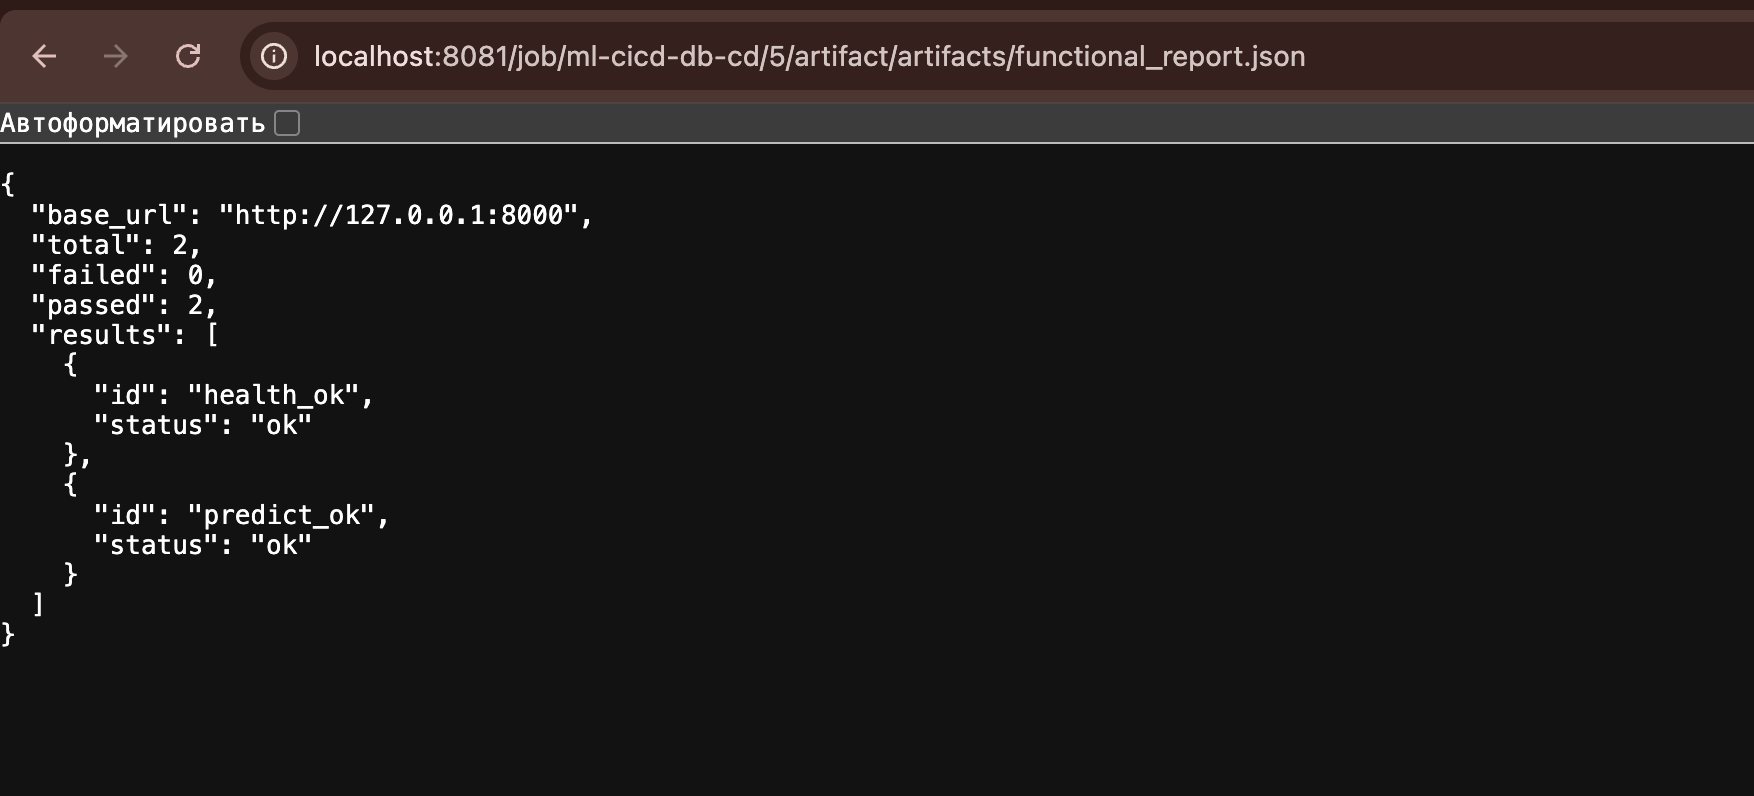
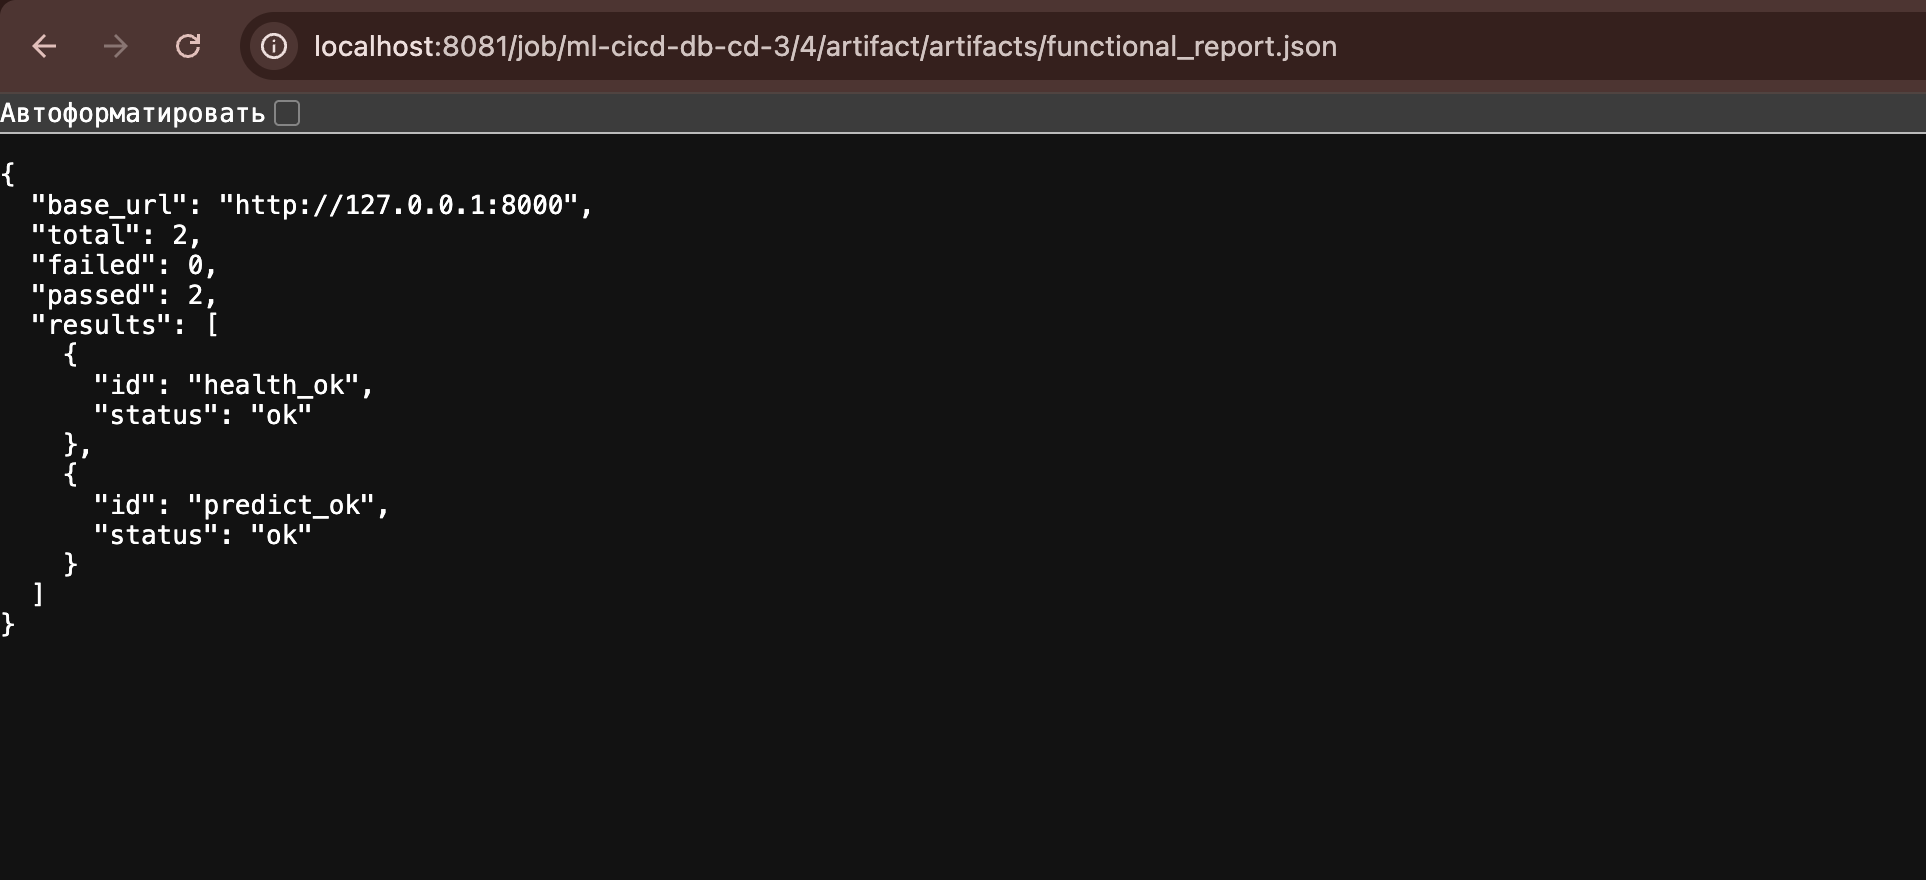
done

Changed region(s): [[0.0, 0.0, 1.0, 0.1809], [0.0, 0.2111, 0.3387, 0.6935]]

diff --git a/README.md b/README.md
@@ -1,140 +1,90 @@
-# Лабораторная №2
+# Лабораторная работа №3
 
-## 1) Интеграция FastAPI-сервиса модели с PostgreSQL
-- В проекте реализована интеграция FastAPI-сервиса модели с PostgreSQL.
-- После каждого запроса `POST /predict` результат инференса сохраняется в таблицу `predictions`.
-- В таблицу записываются:
-  - входные признаки (`features_json`),
-  - значение предсказания (`prediction_value`),
-  - версия модели (`model_version`),
-  - статус выполнения (`status`),
-  - время записи (`created_at`).
+Отчёт по интеграции хранилища секретов, CI/CD и Docker Hub для проекта **ml_cicd_db_3**.
 
-## 2) Реализованы аутентификация/авторизация сервиса при обращении к БД
+---
 
-- Подключение к PostgreSQL выполняется через параметры окружения:
-  - `DB_HOST`, `DB_PORT`, `DB_NAME`, `DB_USER`, `DB_PASSWORD`
-  - либо через `DATABASE_URL`.
-- В исходном коде не используются явно прописанные логины/пароли, адреса/порты или токены доступа.
-- Для локального запуска используется `.env` (по шаблону `.env.example`), для Jenkins/CD — credentials (`postgres-app-user`).
-## 43) Работа с Docker и DockerHub
-### Что реализовано
-- Подготовлен `Dockerfile` для сборки контейнера ML-сервиса.
-- Настроен `docker-compose.yml` для запуска связки:
-  - `housing-api` (FastAPI-сервис модели),
-  - `postgres` (БД для сохранения результатов инференса и загрузки train/val).
-- Контейнер API при старте выполняет:
-  1. preprocessing,
-  2. обучение модели,
-  3. запуск REST API на `8000`.
+## 1) Хранилище секретов
 
-### Локальная проверка Docker
-Сборка и запуск:
+- В стек добавлен **третий сервис** — контейнер **Vault** (`docker-compose.yml`, сервис `vault`).
+- Образ хранилища собирается из **`Dockerfile.vault`**: на этапе сборки в образ копируется скрипт **`docker/vault/entrypoint-vault.sh`** (инициализация логики KV при старте контейнера).
+- При запуске контейнера Vault поднимается в режиме **dev** (только для разработки и демонстрации), в движок **KV v2** записывается путь **`secret/housing/db`** с полями: `username`, `password`, `dbname`, `host`, `port`. Значения передаются переменными **`VAULT_SEED_DB_*`** из окружения compose, а не хранятся в репозитории как готовый файл с паролями приложения.
+
+
+## 2) Взаимодействие приложения с секретами и БД
+
+**Что сделано**
+
+- Секреты для подключения к PostgreSQL **размещены в Vault** (см. раздел **1)**).
+- В **`src/db.py`**: при заданных **`VAULT_ADDR`** и **`VAULT_TOKEN`** параметры подключения читаются из Vault по **HTTP API** (KV v2, путь по умолчанию `secret/data/housing/db`). Для локальных тестов без Vault сохранён fallback на **`DB_*`** / **`DATABASE_URL`**.
+- В **`docker-compose.yml`** у сервиса **`housing-api`** в окружение **не** передаются `DB_USER` / `DB_PASSWORD` — только переменные Vault и путь к секрету.
+- Файл **`.env`** с реальными паролями для Postgres и сидирования Vault **не коммитится** (см. **`.gitignore`**); в репозитории есть шаблон **`.env.example`** без секретов.
+
+**Проверка**
+
+1. Заполнить **`.env`** по **`.env.example`**, поднять полный стек:
+   ```bash
+   docker compose up --build
+   ```
+
+![docker_compose](img/docker_compose.png)
+
+## 3) Docker и Docker Hub
+
+**Что сделано**
+
+- Образ приложения описан в **`Dockerfile`**; локально вместе с Vault и Postgres поднимается **`docker compose`**.
+- Публикация образа в **Docker Hub**: через **CI (Jenkins)** после успешных тестов (раздел **4)**) и/или вручную командами ниже.
+
+
+**Ручной push на Docker Hub**
+
 ```bash
-docker compose up --build
-```
-![docker-build](img/docker-build.png)
-
-## Публикация образа в DockerHub
-```
 docker login
-docker build -t azaliaz/ml_cicd_db:manual-test .
-docker push azaliaz/ml_cicd_db:manual-test
-```
-![dockerhub](img/docker.png)
-Образ успешно собран и опубликован в DockerHub (azaliaz/ml_cicd_db).
-![dockerhub](img/docker-hub.png)
-## 4) Проверка интеграции с PostgreSQL
-### Что реализовано
-
-- Сервис API сохраняет результат каждого `POST /predict` в таблицу `predictions`.
-- Доступ к БД настроен через переменные окружения (`DB_HOST`, `DB_PORT`, `DB_NAME`, `DB_USER`, `DB_PASSWORD`) без hardcode секретов в коде.
-- Добавлен скрипт загрузки наборов в БД: `scripts/load_dataset_to_db.py`:
-  - `--split train` -> таблица `train_samples`
-  - `--split val` -> таблица `val_samples`
-
-
-### Команды проверки
-
-Загрузка train/val в БД:
-
-```bash
-docker compose exec housing-api python scripts/load_dataset_to_db.py --split train
-docker compose exec housing-api python scripts/load_dataset_to_db.py --split val
-```
-![rows-datasets](img/rows-datasets.png)
-Выполнена загрузка подготовленных датасетов в PostgreSQL из контейнера housing-api: --split train записывает данные в train_samples, --split val — в val_samples.
-
-Проверка количества строк:
-```bash
-docker compose exec postgres psql -U housing_app -d housing -c "SELECT COUNT(*) AS train_count FROM train_samples;"
-docker compose exec postgres psql -U housing_app -d housing -c "SELECT COUNT(*) AS val_count FROM val_samples;"
-```
-![train/val](img/scripts.png)
-
-Проверка сохранения предсказаний:
-
-```bash
-docker compose exec postgres psql -U housing_app -d housing -c "SELECT id, created_at, prediction_value, model_version, status FROM predictions ORDER BY id DESC LIMIT 5;"
+docker build -t azaliaz/ml_cicd_db_3:latest .
+docker push azaliaz/ml_cicd_db_3:latest
 ```
 
-![predict-db](img/predict.png)
+![dockerhub](img/docker_hub_push.png)
 
-Интеграция сервиса модели с PostgreSQL работает корректно:
-- API успешно пишет результаты инференса в БД (predictions).
-- Наборы train/val успешно загружаются в БД (train_samples, val_samples).
-- Конфигурация подключения и учетные данные передаются через переменные окружения, без хранения секретов в исходном коде.
-
-## 5) CI (Jenkins): сборка, тесты, публикация в DockerHub
+## 4) CI (Jenkins): сборка, тесты, публикация в Docker Hub
 
 ### Что реализовано
 
-- В проекте настроен CI через `CI/Jenkinsfile`.
+- В проекте настроен CI через **`CI/Jenkinsfile`**.
 - При запуске CI:
-  1. забирается код из GitHub;
-  2. собирается Docker-образ;
-  3. запускаются тесты `pytest` внутри контейнера;
-  4. образ отправляется в DockerHub.
-- Для ветки `main` дополнительно обновляется тег `latest` (последняя актуальная версия образа).
+  1. забирается код из Git (репозиторий с `Dockerfile` и исходниками);
+  2. собирается Docker-образ приложения (`docker build` в корне проекта);
+  3. запускаются тесты **`pytest`** внутри временного контейнера из этого образа;
+  4. для веток **`main`** и **`develop`** образ **отправляется в Docker Hub** (`docker login` / `docker push`): публикуются теги **`<номер_сборки>`** и **`sha-<короткий_хеш_коммита>`** (базовое имя образа задаётся параметром **`DOCKER_IMAGE_BASENAME`**, например **`azaliaz/ml_cicd_db_3`**).
+- Для ветки **`main`** дополнительно обновляется тег **`latest`** (последняя актуальная версия образа на Hub).
+- После успешного push при включённом параметре **`TRIGGER_CD`** может быть поставлен в очередь запуск **CD** с тем же собранным образом (CI не ждёт его завершения).
 
-![ml-ci-db](img/ml-ci-1.png)
-![ml-ci-db](img/ml-ci-2.png)
-В результате выполнения CI-пайплайна образ приложения был успешно опубликован в DockerHub (azaliaz/ml_cicd_db).
-После сборки были созданы два тега:
+![Результат CI — обзор сборки](img/jenkins_ci.png)
 
-![ml-ci-db](img/tags-dockerhub.png)
+В результате CI образ приложения оказывается в **Docker Hub** (репозиторий задаётся параметром **`DOCKER_IMAGE_BASENAME`**, в примере — **`azaliaz/ml_cicd_db_3`**): обычно видны два тега — по номеру сборки Jenkins и **`sha-…`** по коммиту; для ветки **`main`** дополнительно обновляется **`latest`**.
 
-5 — тег по номеру сборки Jenkins;
-sha-117030c — тег по короткому хэшу коммита.
-Оба тега имеют одинаковый digest (sha256:4092be21c726...), что подтверждает: они указывают на один и тот же Docker-образ (один и тот же артефакт, опубликованный под разными тегами).
-Это означает, что CI корректно выполняет сборку, тестирование и публикацию образа в DockerHub.
+![Теги образа на Docker Hub](img/tags-dockerhub.png)
 
-## 6) CD (Jenkins): развертывание и функциональное тестирование
+## 5) CD (Jenkins): развёртывание и функциональное тестирование
 
 ### Что реализовано
 
-- В проекте настроен CD через `CD/Jenkinsfile`.
+- В проекте настроен CD через **`CD/Jenkinsfile`**.
 - При запуске CD:
-  1. выполняется `docker pull` образа из DockerHub;
-  2. поднимаются контейнеры PostgreSQL и API;
-  3. выполняется проверка готовности сервиса через `/health`;
-  4. запускаются функциональные сценарии из `scenario.json`;
-  5. результаты сохраняются в артефакт Jenkins `artifacts/functional_report.json`.
+  1. забирается код из Git (на агенте нужны **`Dockerfile.vault`**, **`scenario.json`**, **`scripts/run_scenarios.py`** и остальные файлы из репозитория);
+  2. с **Docker Hub** скачивается образ приложения, указанный параметром **`DOCKER_IMAGE`** (например **`azaliaz/ml_cicd_db_3:2`** или **`:latest`**);
+  3. собирается образ **хранилища секретов** **`housing-vault:cd`** из **`Dockerfile.vault`**;
+  4. при включённом параметре **`RUN_PYTEST_IN_CONTAINER`** ещё раз запускаются тесты **`pytest`** внутри контейнера из образа с Hub;
+  5. при включённом **`RUN_SCENARIOS`** в сети **`cd-net`** поднимаются **PostgreSQL** (логин/пароль из Jenkins credentials **`postgres-app-user`**), **Vault** (те же учётные данные записываются в KV) и контейнер **API** с образа Hub; в API передаются только **`VAULT_ADDR`**, **`VAULT_TOKEN`**, **`VAULT_SECRET_PATH`** — пароль БД в env API не пробрасывается;
+  6. в цикле вызывается **`GET /health`** по **`http://127.0.0.1:8000`** **внутри** контейнера API (первые попытки часто падают, пока в **`docker/entrypoint.sh`** идут **preprocess** и **train**, затем поднимается uvicorn);
+  7. выполняется **`scripts/run_scenarios.py`** по **`scenario.json`**, отчёт пишется в **`artifacts/functional_report.json`** и сохраняется как артефакт сборки; в **`post`** контейнеры и сеть удаляются.
 
 
-### Результат проверки
+![Результат CD — обзор сборки](img/jenkins_cd.png)
 
-- Контейнеры `housing-db-cd` и `housing-api-cd` успешно запущены.
-- Health-check прошел успешно (`{"status":"ok"}`).
-- Функциональные сценарии выполнены успешно:
-  - `OK health_ok`
-  - `OK predict_ok`
-- Build CD завершился статусом `SUCCESS`.
-![ml-cd-db](img/ml-cd-1.png)
-![ml-cd-db](img/ml-cd-2.png)
 
-Артефакт artifacts/functional_report.json с результатами функционального тестирования CD-пайплайна.
-![artifacts](img/artifacts.png)
+В результате выполнения CD-пайплайна проверяется образ с **Docker Hub**, пройдены функциональные сценарии; в артефактах сборки доступен файл **`functional_report.json`** для отчёта.
 
-CD pipeline корректно выполняет развертывание сервиса из DockerHub-образа и подтверждает работоспособность API автоматическим функциональным тестированием с сохранением отчета в артефакты Jenkins.
+![Артефакт functional_report.json](img/artifacts.png)
 